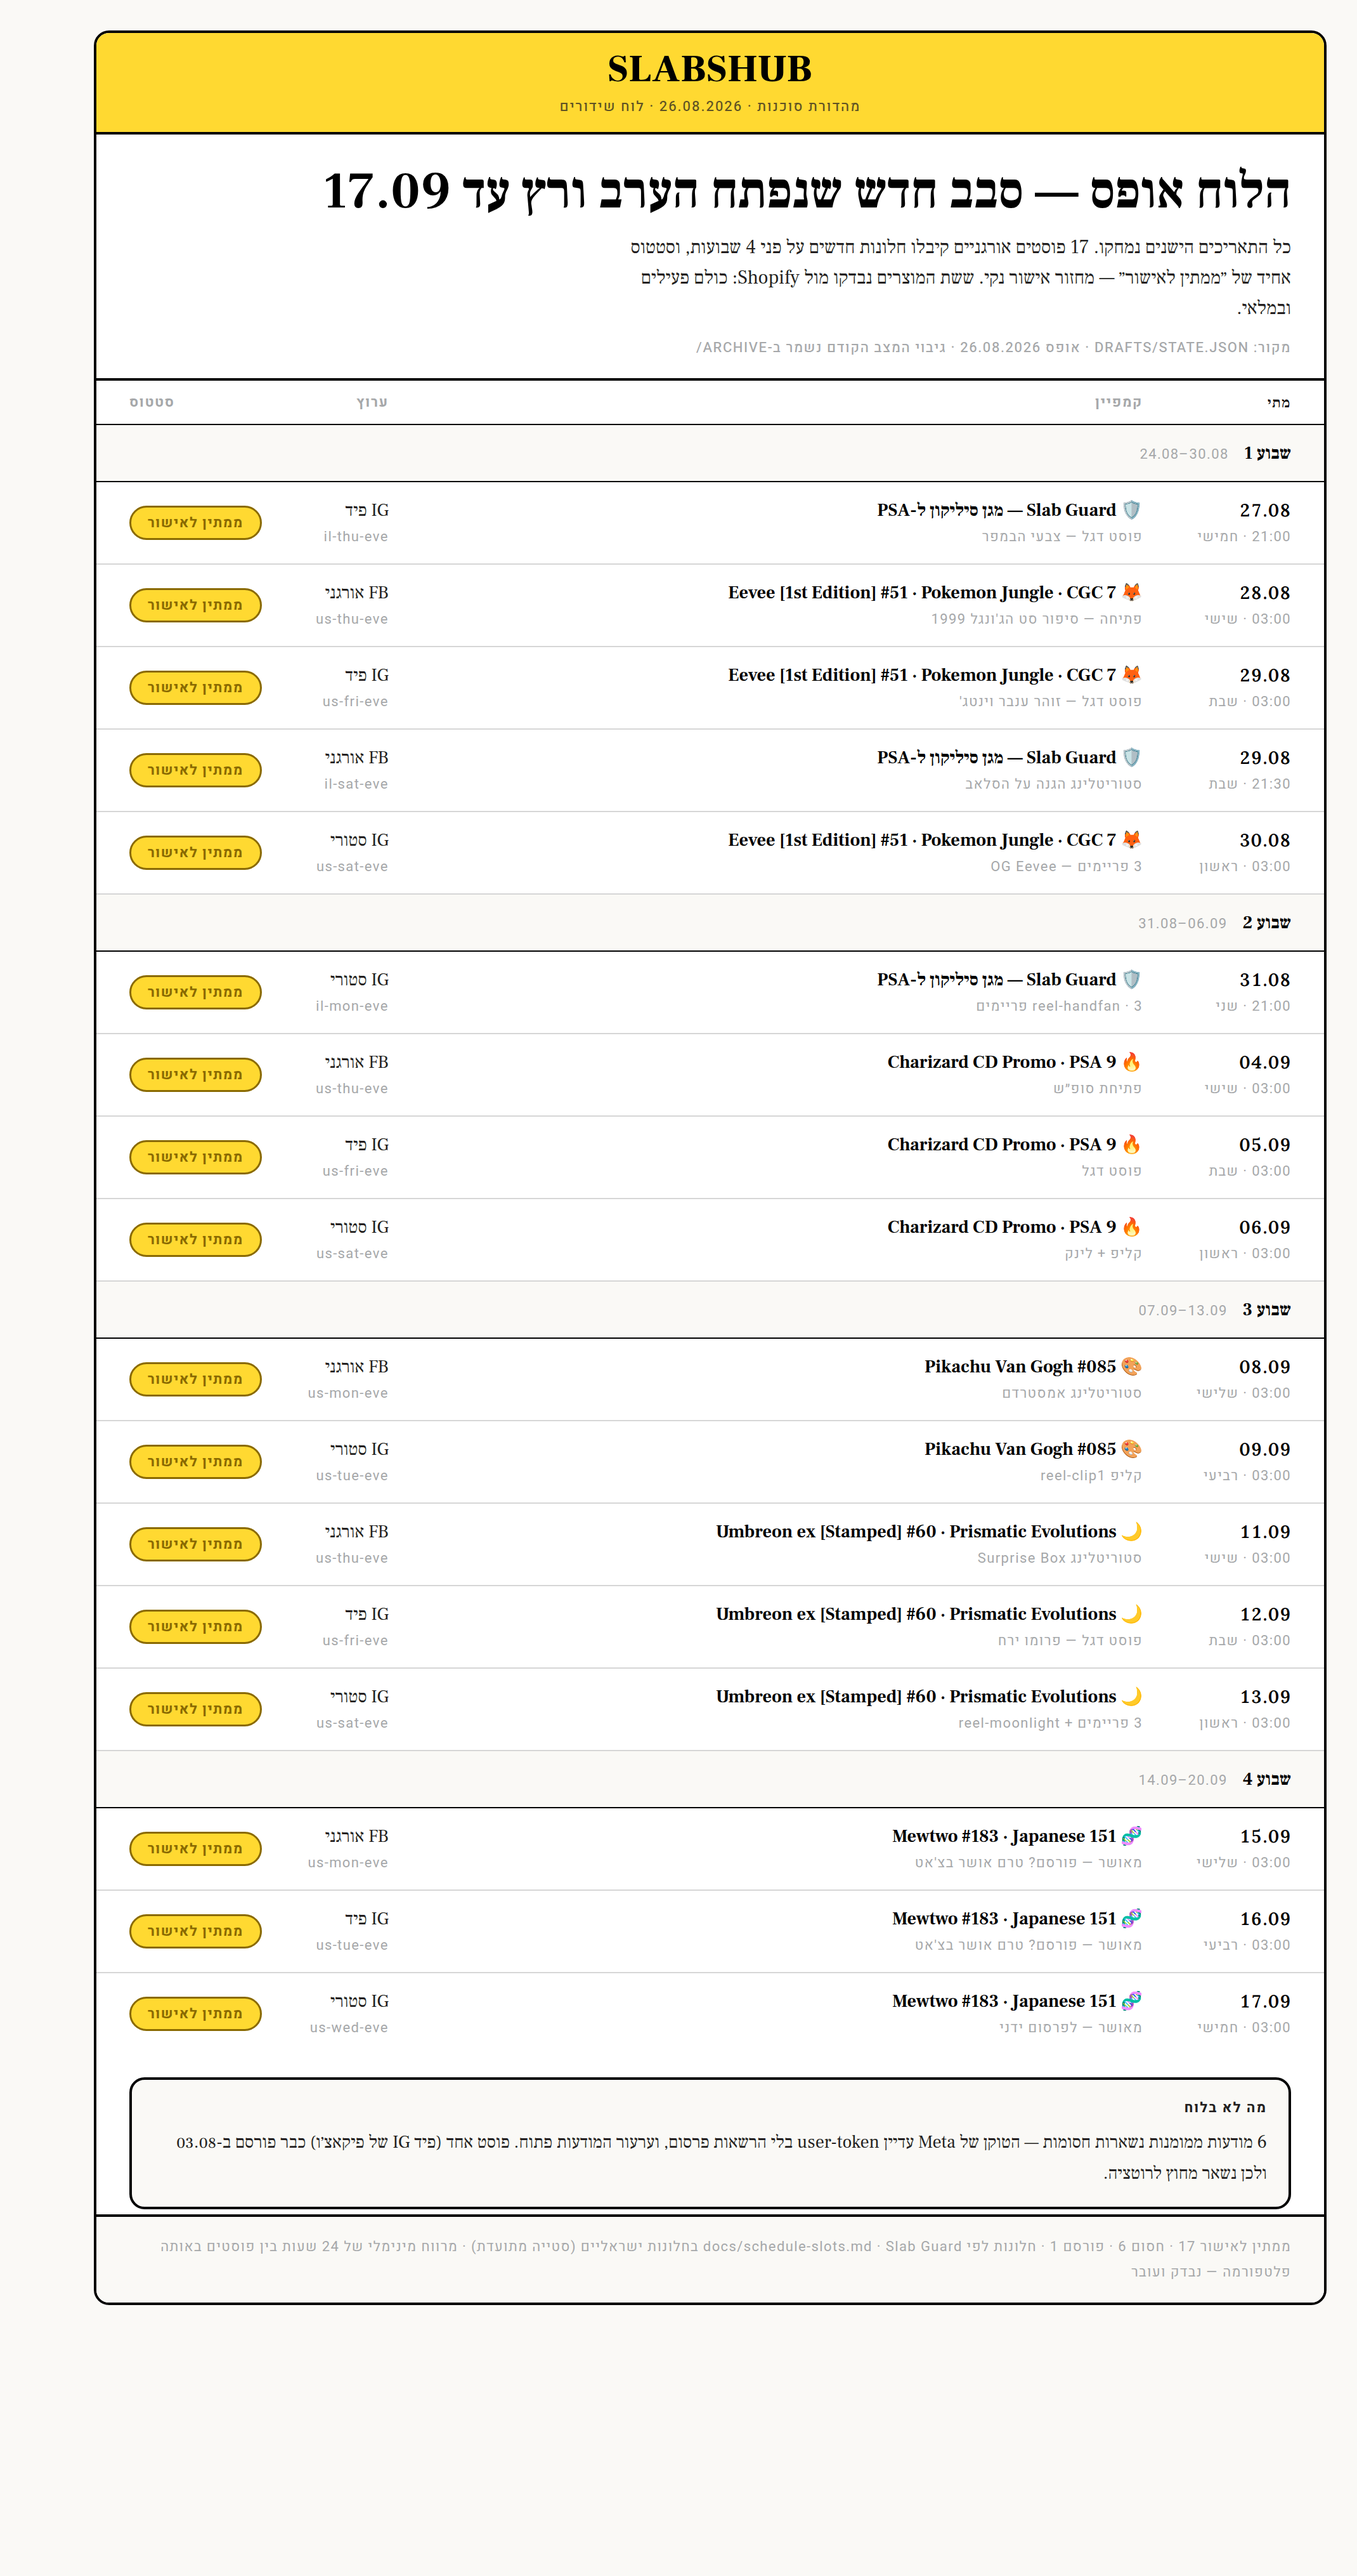
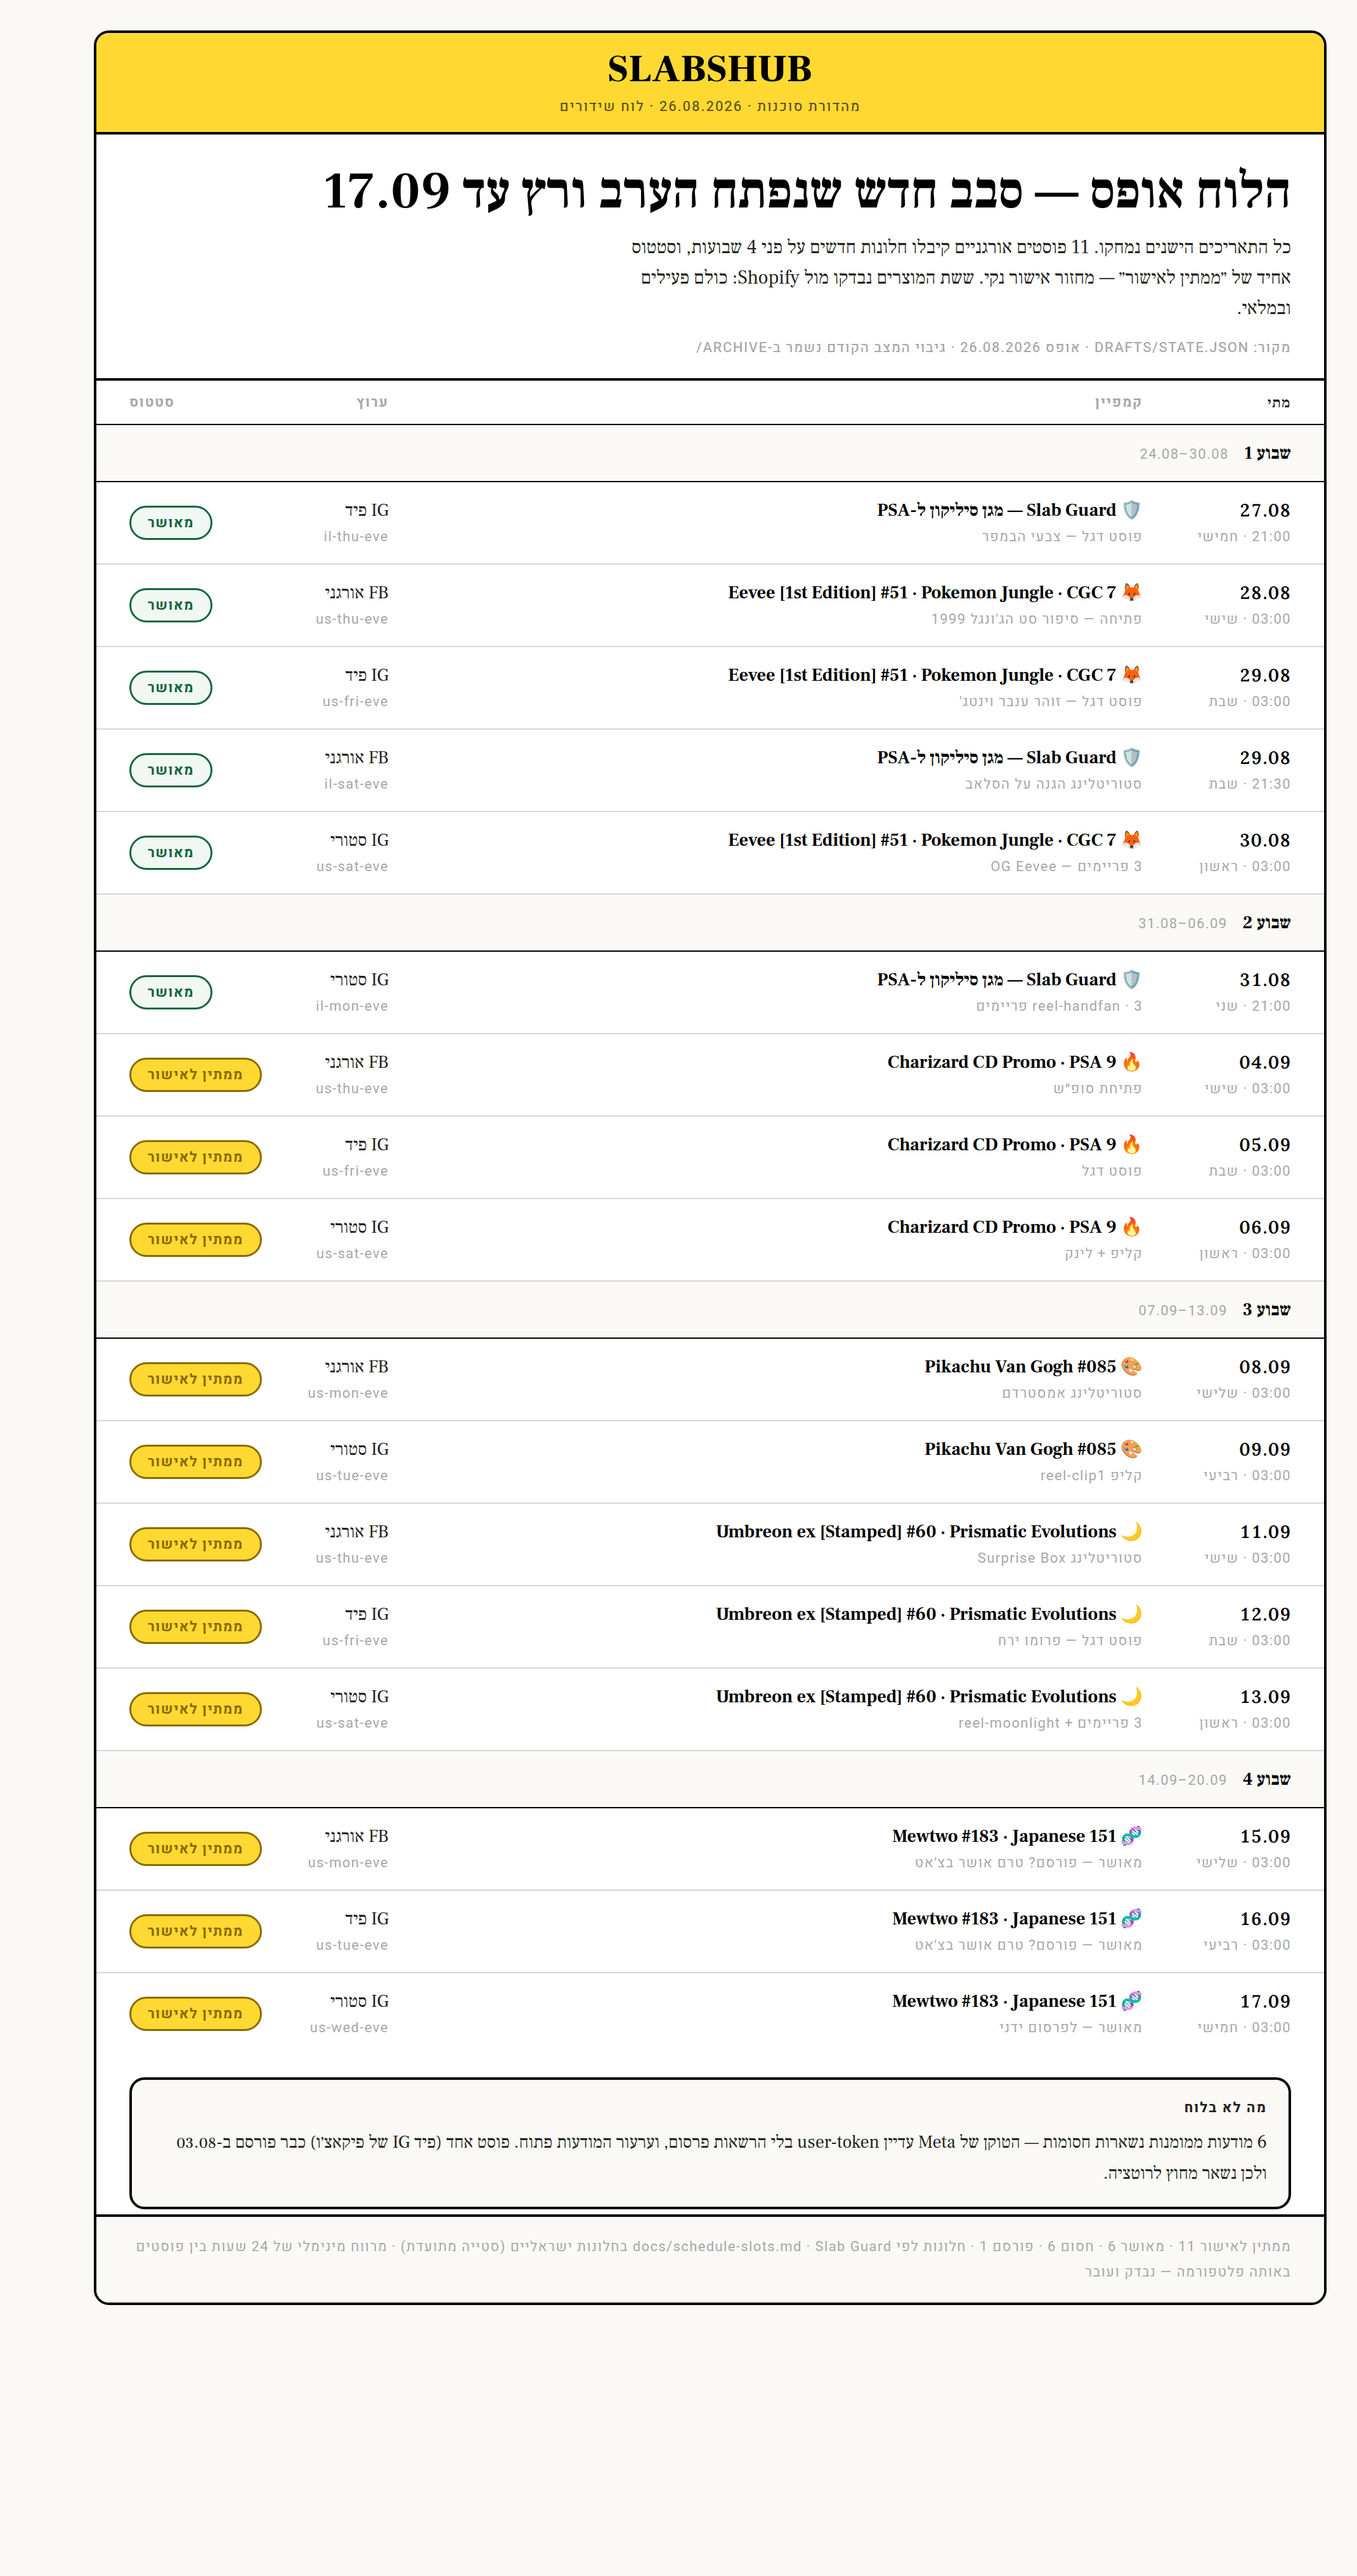
Approve wave 1: six organic posts for Eevee and Slab Guard, 27-31.08
Draft headers refreshed to the new slots. Publishing stays manual — Meta API
is still blocked.

Claude-Session: https://claude.ai/code/session_0161EBWkBzQ1si38kLj4LzEw

Changed region(s): [[0.0925, 0.1862, 0.185, 0.3414], [0.0925, 0.3724, 0.185, 0.4034]]

diff --git a/drafts/2026-08-04-slab-guard-launch-instagram-story.md b/drafts/2026-08-04-slab-guard-launch-instagram-story.md
@@ -1,7 +1,7 @@
 # APPROVED — ready to publish manually
 - Platform: instagram-story
-- Proposed publish time: יום חמישי 2026-08-06, 21:00 IDT — slot: il-thu-eve (custom, Israel-local; deviation from docs/schedule-slots.md — US-oriented grid; using Israeli weekday evening peak, ~24.5h after the FB organic opener, one day after the IG feed hero per standard FB→IG feed→IG story campaign shape)
-- Status: APPROVED (by Matan in chat, 2026-08-04)
+- Publish time: יום שני 2026-08-31, 21:00 IDT — slot: il-mon-eve
+- Status: APPROVED (by Matan in chat, 2026-08-26 — schedule reset, wave 1)
 
 ## Final copy
 

diff --git a/drafts/2026-08-04-slab-guard-launch-instagram-feed.md b/drafts/2026-08-04-slab-guard-launch-instagram-feed.md
@@ -1,7 +1,7 @@
 # APPROVED — ready to publish manually
 - Platform: instagram-feed
-- Proposed publish time: יום רביעי 2026-08-05, 20:30 IDT — slot: il-wed-eve (custom, Israel-local; deviation from docs/schedule-slots.md — that grid is US-evening-oriented, this campaign targets Israeli collectors, so using local weekday evening peak 20:00–22:00 IDT instead)
-- Status: APPROVED (by Matan in chat, 2026-08-04)
+- Publish time: יום חמישי 2026-08-27, 21:00 IDT — slot: il-thu-eve
+- Status: APPROVED (by Matan in chat, 2026-08-26 — schedule reset, wave 1)
 
 ## Final copy
 

diff --git a/drafts/2026-08-04-slab-guard-launch-facebook-organic.md b/drafts/2026-08-04-slab-guard-launch-facebook-organic.md
@@ -1,7 +1,7 @@
 # APPROVED — ready to publish manually
 - Platform: facebook-organic
-- Proposed publish time: יום שבת (מוצאי שבת) 2026-08-08, 21:30 IDT — slot: il-sat-eve (custom, Israel-local; deviation from docs/schedule-slots.md — US-oriented grid; using Motzei Shabbat weekend peak, ~48.5h after the IG feed post for platform spacing)
-- Status: APPROVED (by Matan in chat, 2026-08-04)
+- Publish time: יום שבת 2026-08-29, 21:30 IDT — slot: il-sat-eve
+- Status: APPROVED (by Matan in chat, 2026-08-26 — schedule reset, wave 1)
 
 ## Final copy
 

diff --git a/drafts/2026-08-05-eevee-jungle-cgc7-facebook-organic.md b/drafts/2026-08-05-eevee-jungle-cgc7-facebook-organic.md
@@ -1,8 +1,7 @@
-# DRAFT — awaiting approval
+# APPROVED — ready to publish manually
 - Platform: facebook-organic
-- Proposed publish time: Friday 2026-08-07, 04:00 IDT (= Thu 21:00 ET)
-- slot: us-thu-eve (Fri 03:00–05:00 IDT) — used at 04:00 (+1h) to clear Charizard's FB-organic post (03:00, same window/day)
-- Status: PENDING_APPROVAL
+- Publish time: יום שישי 2026-08-28, 03:00 IDT — slot: us-thu-eve
+- Status: APPROVED (by Matan in chat, 2026-08-26 — schedule reset, wave 1)
 
 ## Final copy
 

diff --git a/drafts/2026-08-05-eevee-jungle-cgc7-instagram-story.md b/drafts/2026-08-05-eevee-jungle-cgc7-instagram-story.md
@@ -1,8 +1,7 @@
-# DRAFT — awaiting approval
+# APPROVED — ready to publish manually
 - Platform: instagram-story
-- Proposed publish time: Sunday 2026-08-09, 04:30 IDT (= Sat 21:30 ET)
-- slot: us-sat-eve (Sun 03:00–05:00 IDT) — used at 04:30 (+1h) to clear Charizard's IG story post (03:30, same window/day)
-- Status: PENDING_APPROVAL
+- Publish time: יום ראשון 2026-08-30, 03:00 IDT — slot: us-sat-eve
+- Status: APPROVED (by Matan in chat, 2026-08-26 — schedule reset, wave 1)
 
 ## Final copy
 

diff --git a/drafts/2026-08-05-eevee-jungle-cgc7-instagram-feed.md b/drafts/2026-08-05-eevee-jungle-cgc7-instagram-feed.md
@@ -1,8 +1,7 @@
-# DRAFT — awaiting approval
+# APPROVED — ready to publish manually
 - Platform: instagram-feed
-- Proposed publish time: Saturday 2026-08-08, 04:00 IDT (= Fri 21:00 ET)
-- slot: us-fri-eve (Sat 03:00–05:00 IDT) — used at 04:00 (+1h) to clear Charizard's IG feed post (03:00, same window/day)
-- Status: PENDING_APPROVAL
+- Publish time: יום שבת 2026-08-29, 03:00 IDT — slot: us-fri-eve
+- Status: APPROVED (by Matan in chat, 2026-08-26 — schedule reset, wave 1)
 
 ## Final copy
 
